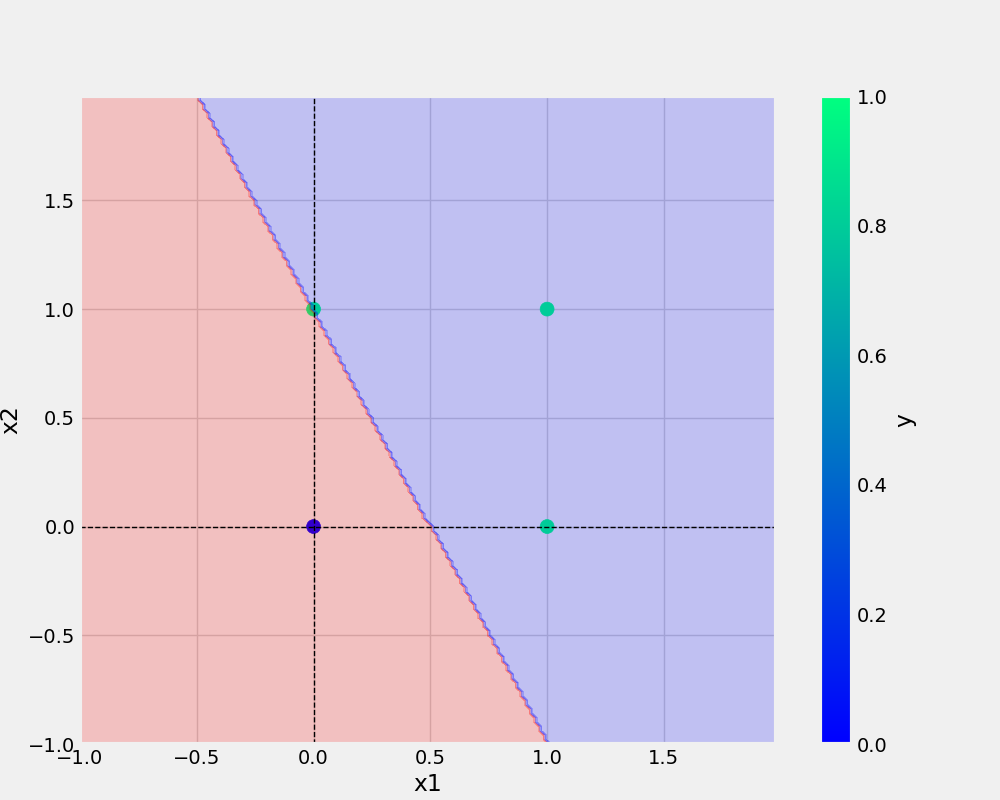
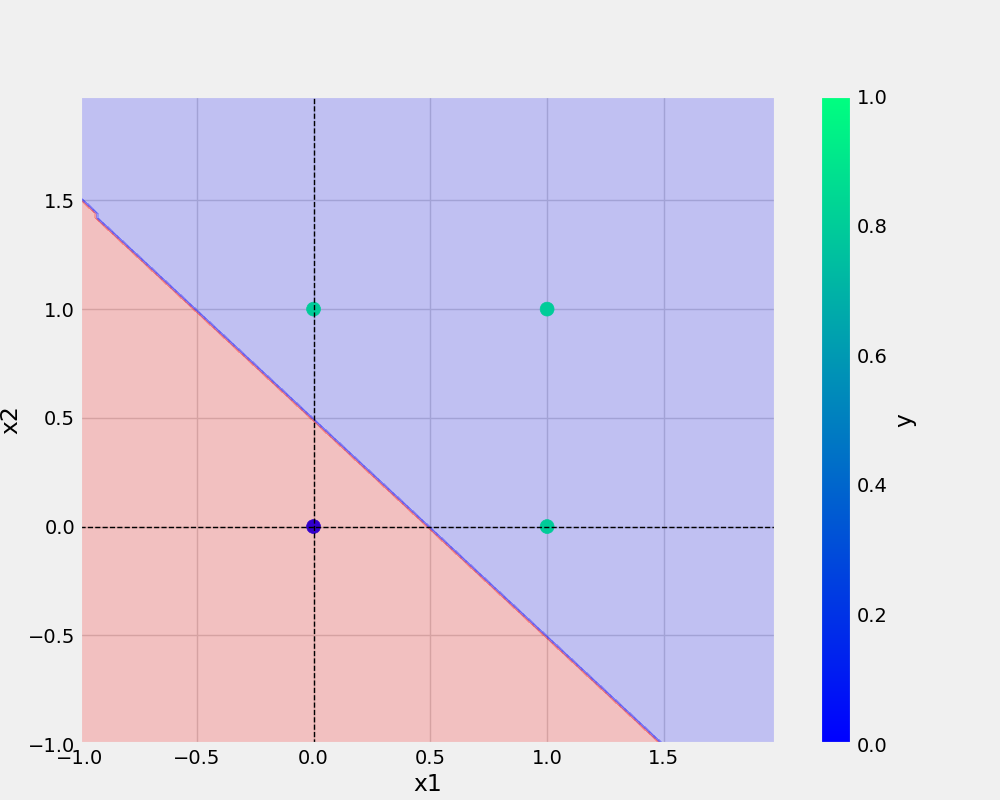
logging add in seprate file

Changed region(s): [[0.062, 0.125, 0.434, 0.6562], [0.434, 0.6562, 0.651, 0.9375]]

diff --git a/or.py b/or.py
@@ -12,7 +12,8 @@ logging_str = "[%(asctime)s:%(module)s:%(levelname)s:%(lineno)s] %(message)s"
 log_dir = 'logs'
 os.makedirs(log_dir, exist_ok= True)
 
-logging.basicConfig(filename=os.path.join(log_dir, 'running_logs.log'),level=logging.INFO, format=logging_str)
+logging.basicConfig(filename=os.path.join(log_dir, 'running_logs.log'),level=logging.INFO, format=logging_str,
+filemode='a')
 
 def main(data,eta, epochs,filename,plotfilename):
 
@@ -37,10 +38,11 @@ if __name__ =="__main__":
         "y" : [0,1,1,1]
     }
     ETA = 0.3
-    EPOCHS = 10
+    EPOCHS = 1000
     try:
-        logging.info(">>>>> starting traing >>>>>")
+        logging.info("\n>>>>> starting traing >>>>>")
         main(data=OR, eta=ETA,epochs=EPOCHS,filename='or.model',plotfilename='or.png')
         logging.info("<<<<< stoping the traing >>>>>")
     except Exception as e:
         logging.exception(e)
+        raise e

diff --git a/utils/model.py b/utils/model.py
@@ -4,6 +4,7 @@ import pandas as pd
 import joblib # FOR SAVING MY MODEL AS A BINARY FILE
 from matplotlib.colors import ListedColormap
 import logging
+from tqdm import tqdm
 
 plt.style.use("fivethirtyeight") # THIS IS STYLE OF GRAPHS
 
@@ -26,7 +27,7 @@ class Perceptron:
     X_with_bias = np.c_[self.X, -np.ones((len(self.X), 1))] # CONCATINATION
     logging.info(f"X with bias: \n{X_with_bias}")
 
-    for epoch in range(self.epochs):
+    for epoch in tqdm(range(self.epochs),total=self.epochs,desc='traing the model'):
       logging.info("--"*10)
       logging.info(f"for epoch: {epoch}")
       logging.info("--"*10)
